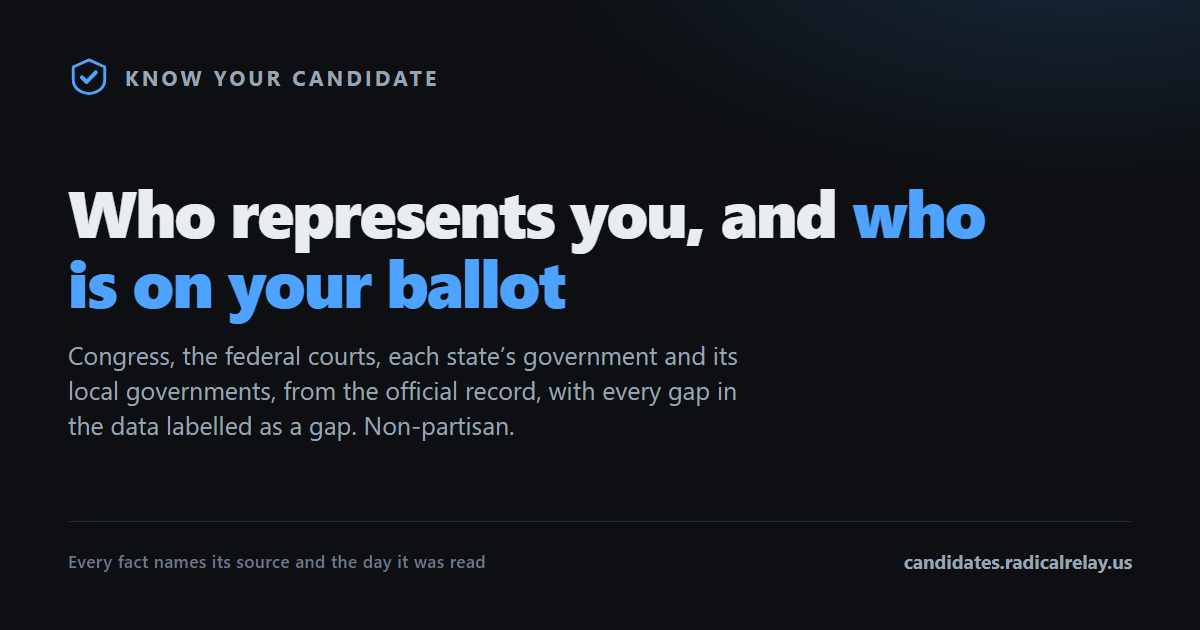
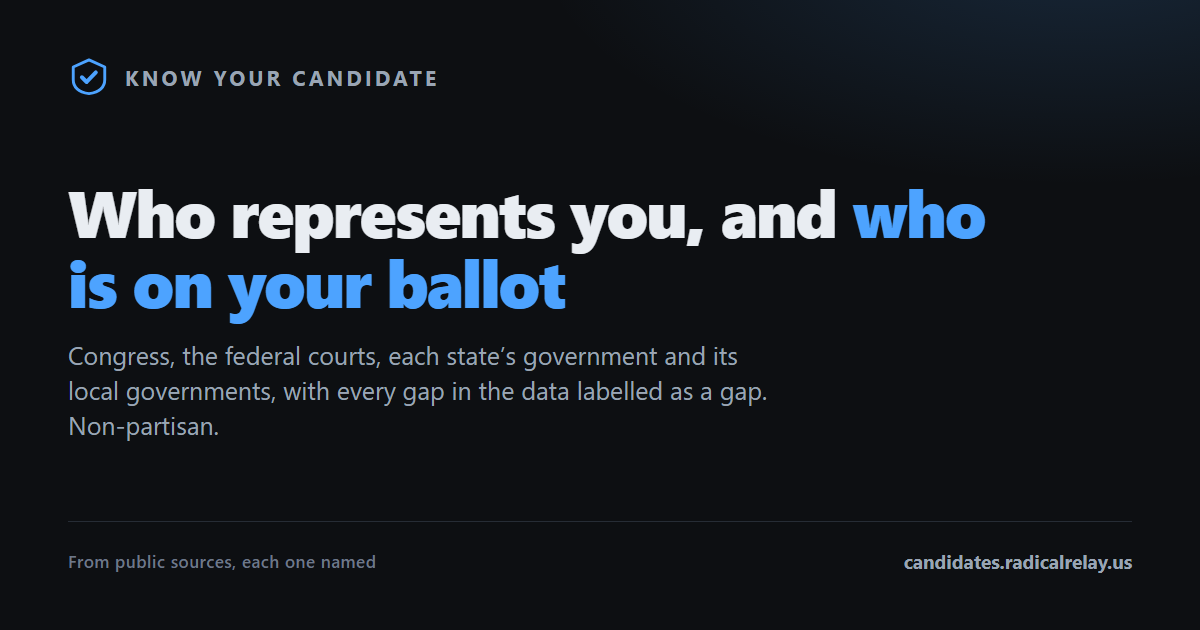
Share card: no provenance claim the share pages do not keep (PR #121 review)

Changed region(s): [[0.0617, 0.6032, 0.6475, 0.6937], [0.0617, 0.8746, 0.4008, 0.9048]]

diff --git a/tools/social-card.html b/tools/social-card.html
@@ -12,7 +12,10 @@
   would have been the old one's (rule 68). And a year or a source list: it
   read "who is running in 2026" and "Congress.gov, FEC, Voteview", false the
   day after the election and of every court, county and legislature page it
-  stands for (TECH-09). A person's or a race's share page carries its own
+  stands for (TECH-09). Nor a claim the pages it fronts do not keep: it
+  said "from the official record" over results read from Wikipedia, and
+  that every fact names "the day it was read" over share pages that carry
+  no date (PR #121 review). A person's or a race's share page carries its own
   title, and the person's own photograph where one is sourced (rule 96).
 
   The hostname below is checked against CNAME by `verify`
@@ -61,12 +64,12 @@
 <div class="mid">
   <h1>Who represents you, and <em>who is on your ballot</em></h1>
   <p class="sub">Congress, the federal courts, each state&#8217;s government and its
-     local governments, from the official record, with every gap in the data
-     labelled as a gap. <span class="nowrap">Non-partisan.</span></p>
+     local governments, with every gap in the data labelled as a gap.
+     <span class="nowrap">Non-partisan.</span></p>
 </div>
 <footer>
   <div class="sources">
-    Every fact names its source and the day it was read
+    From public sources, each one named
   </div>
   <div class="host">candidates.radicalrelay.us</div>
 </footer>
